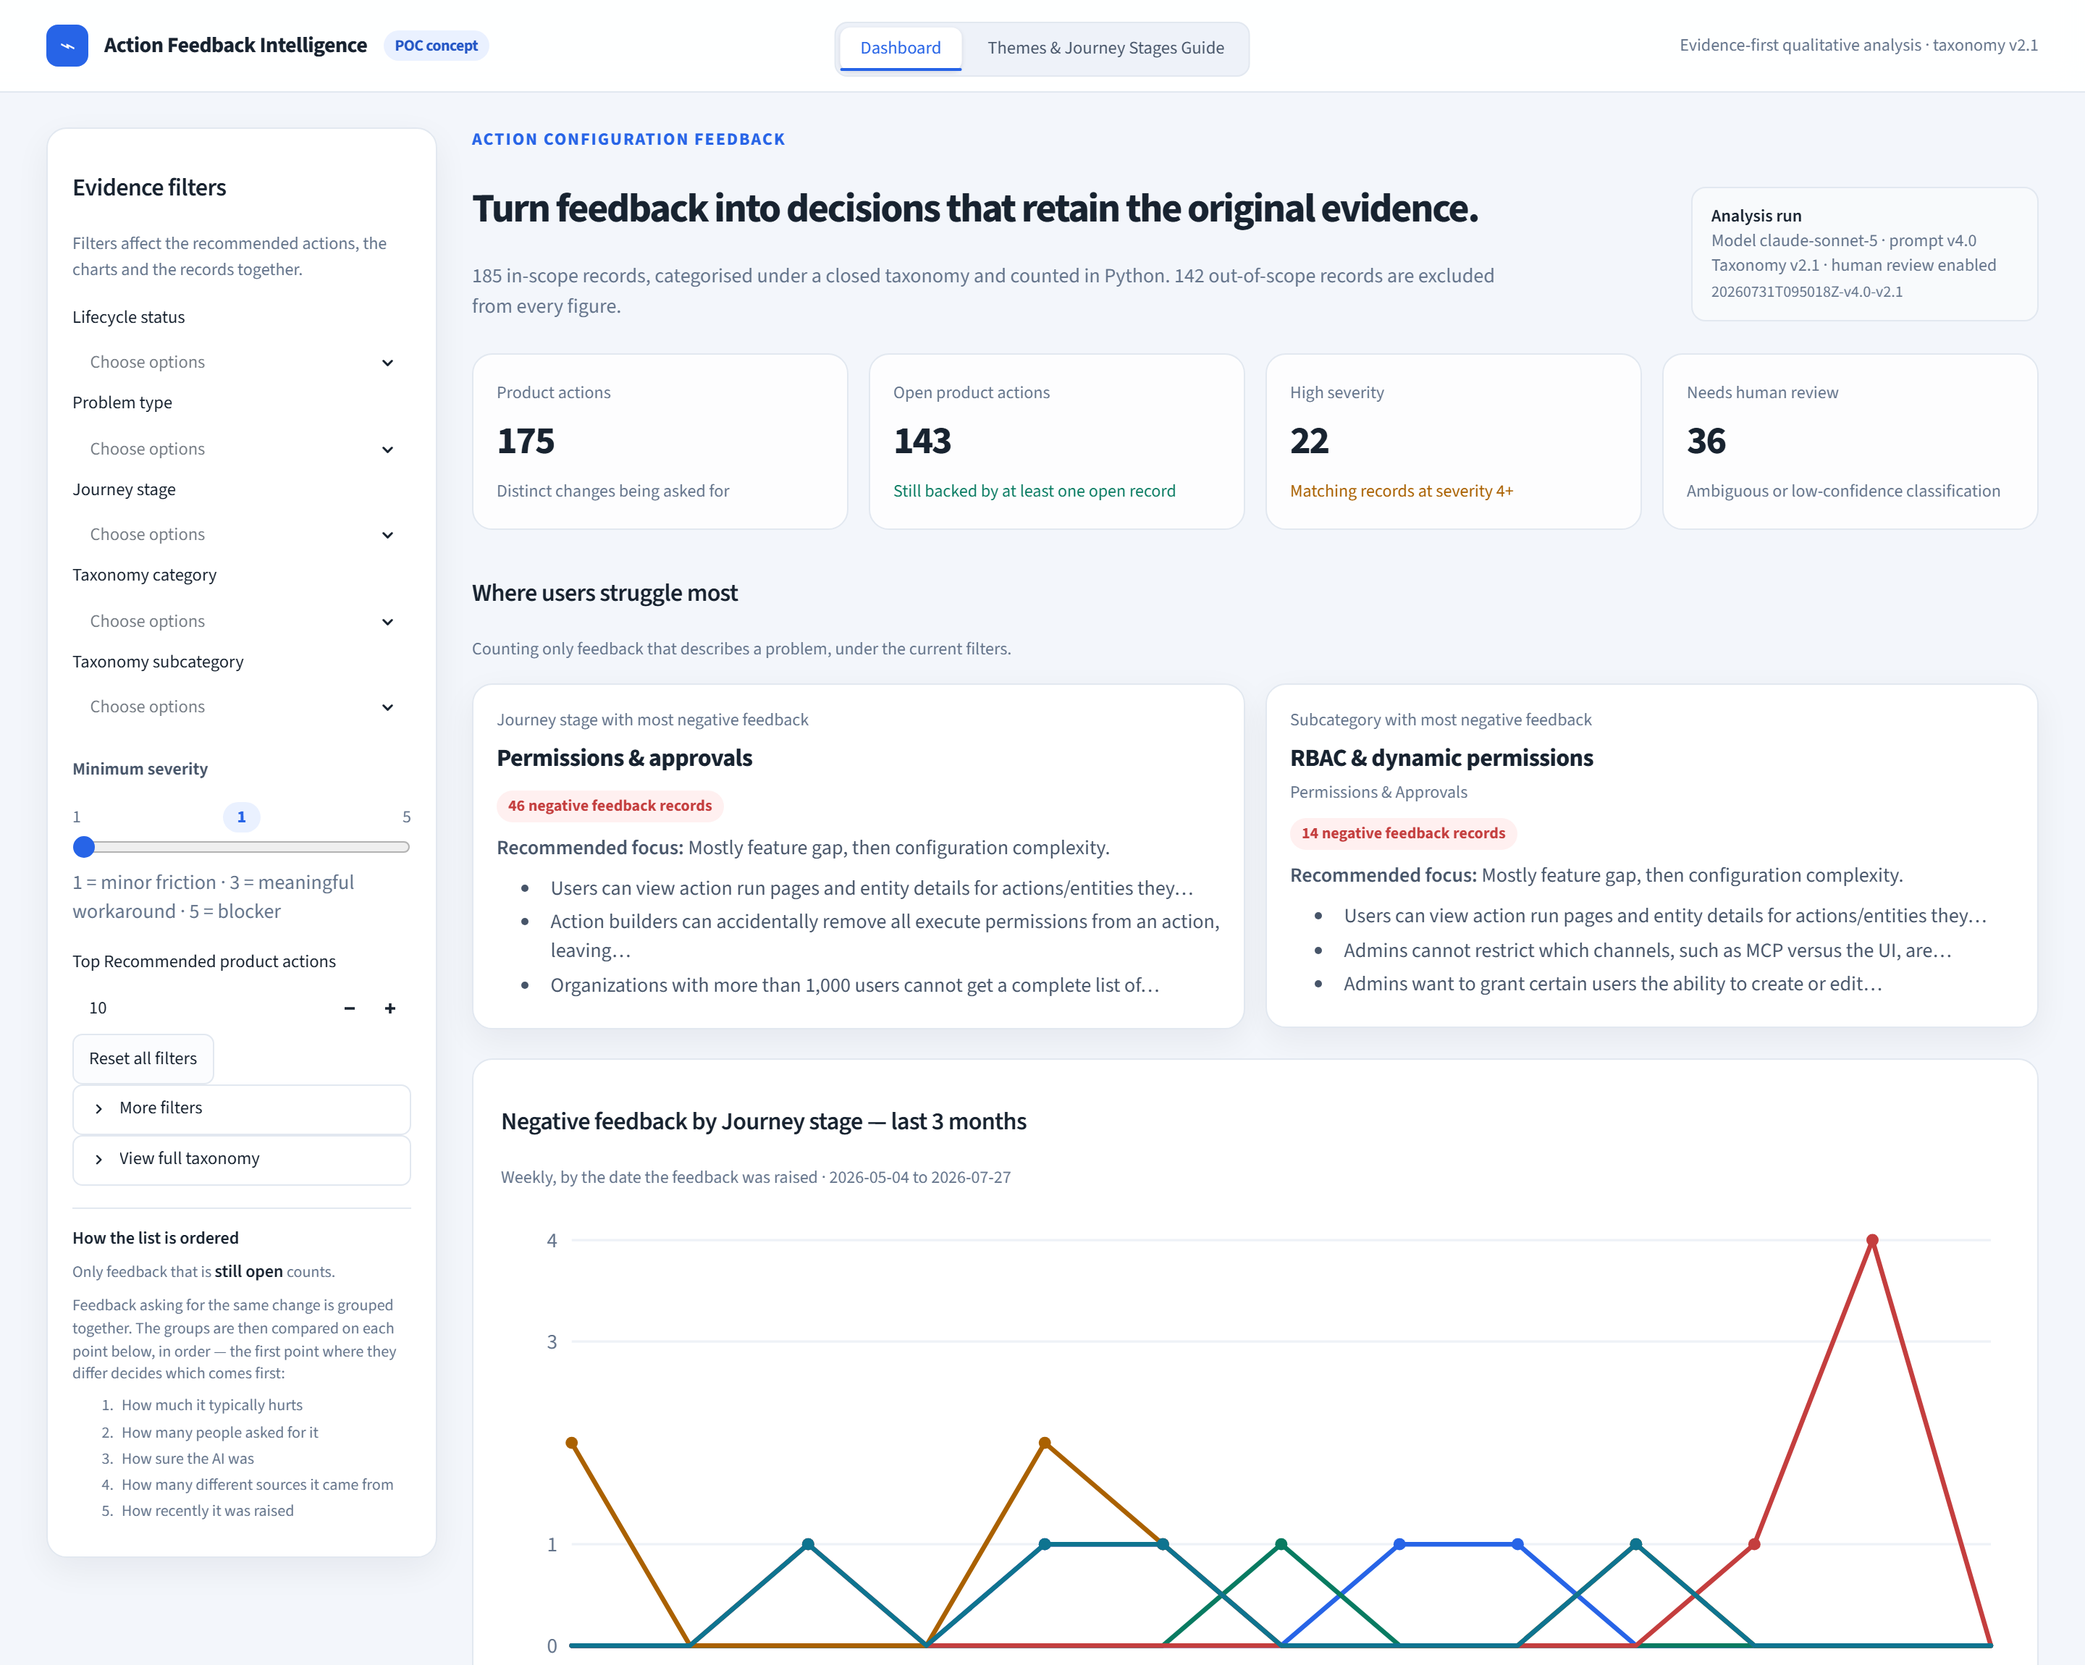
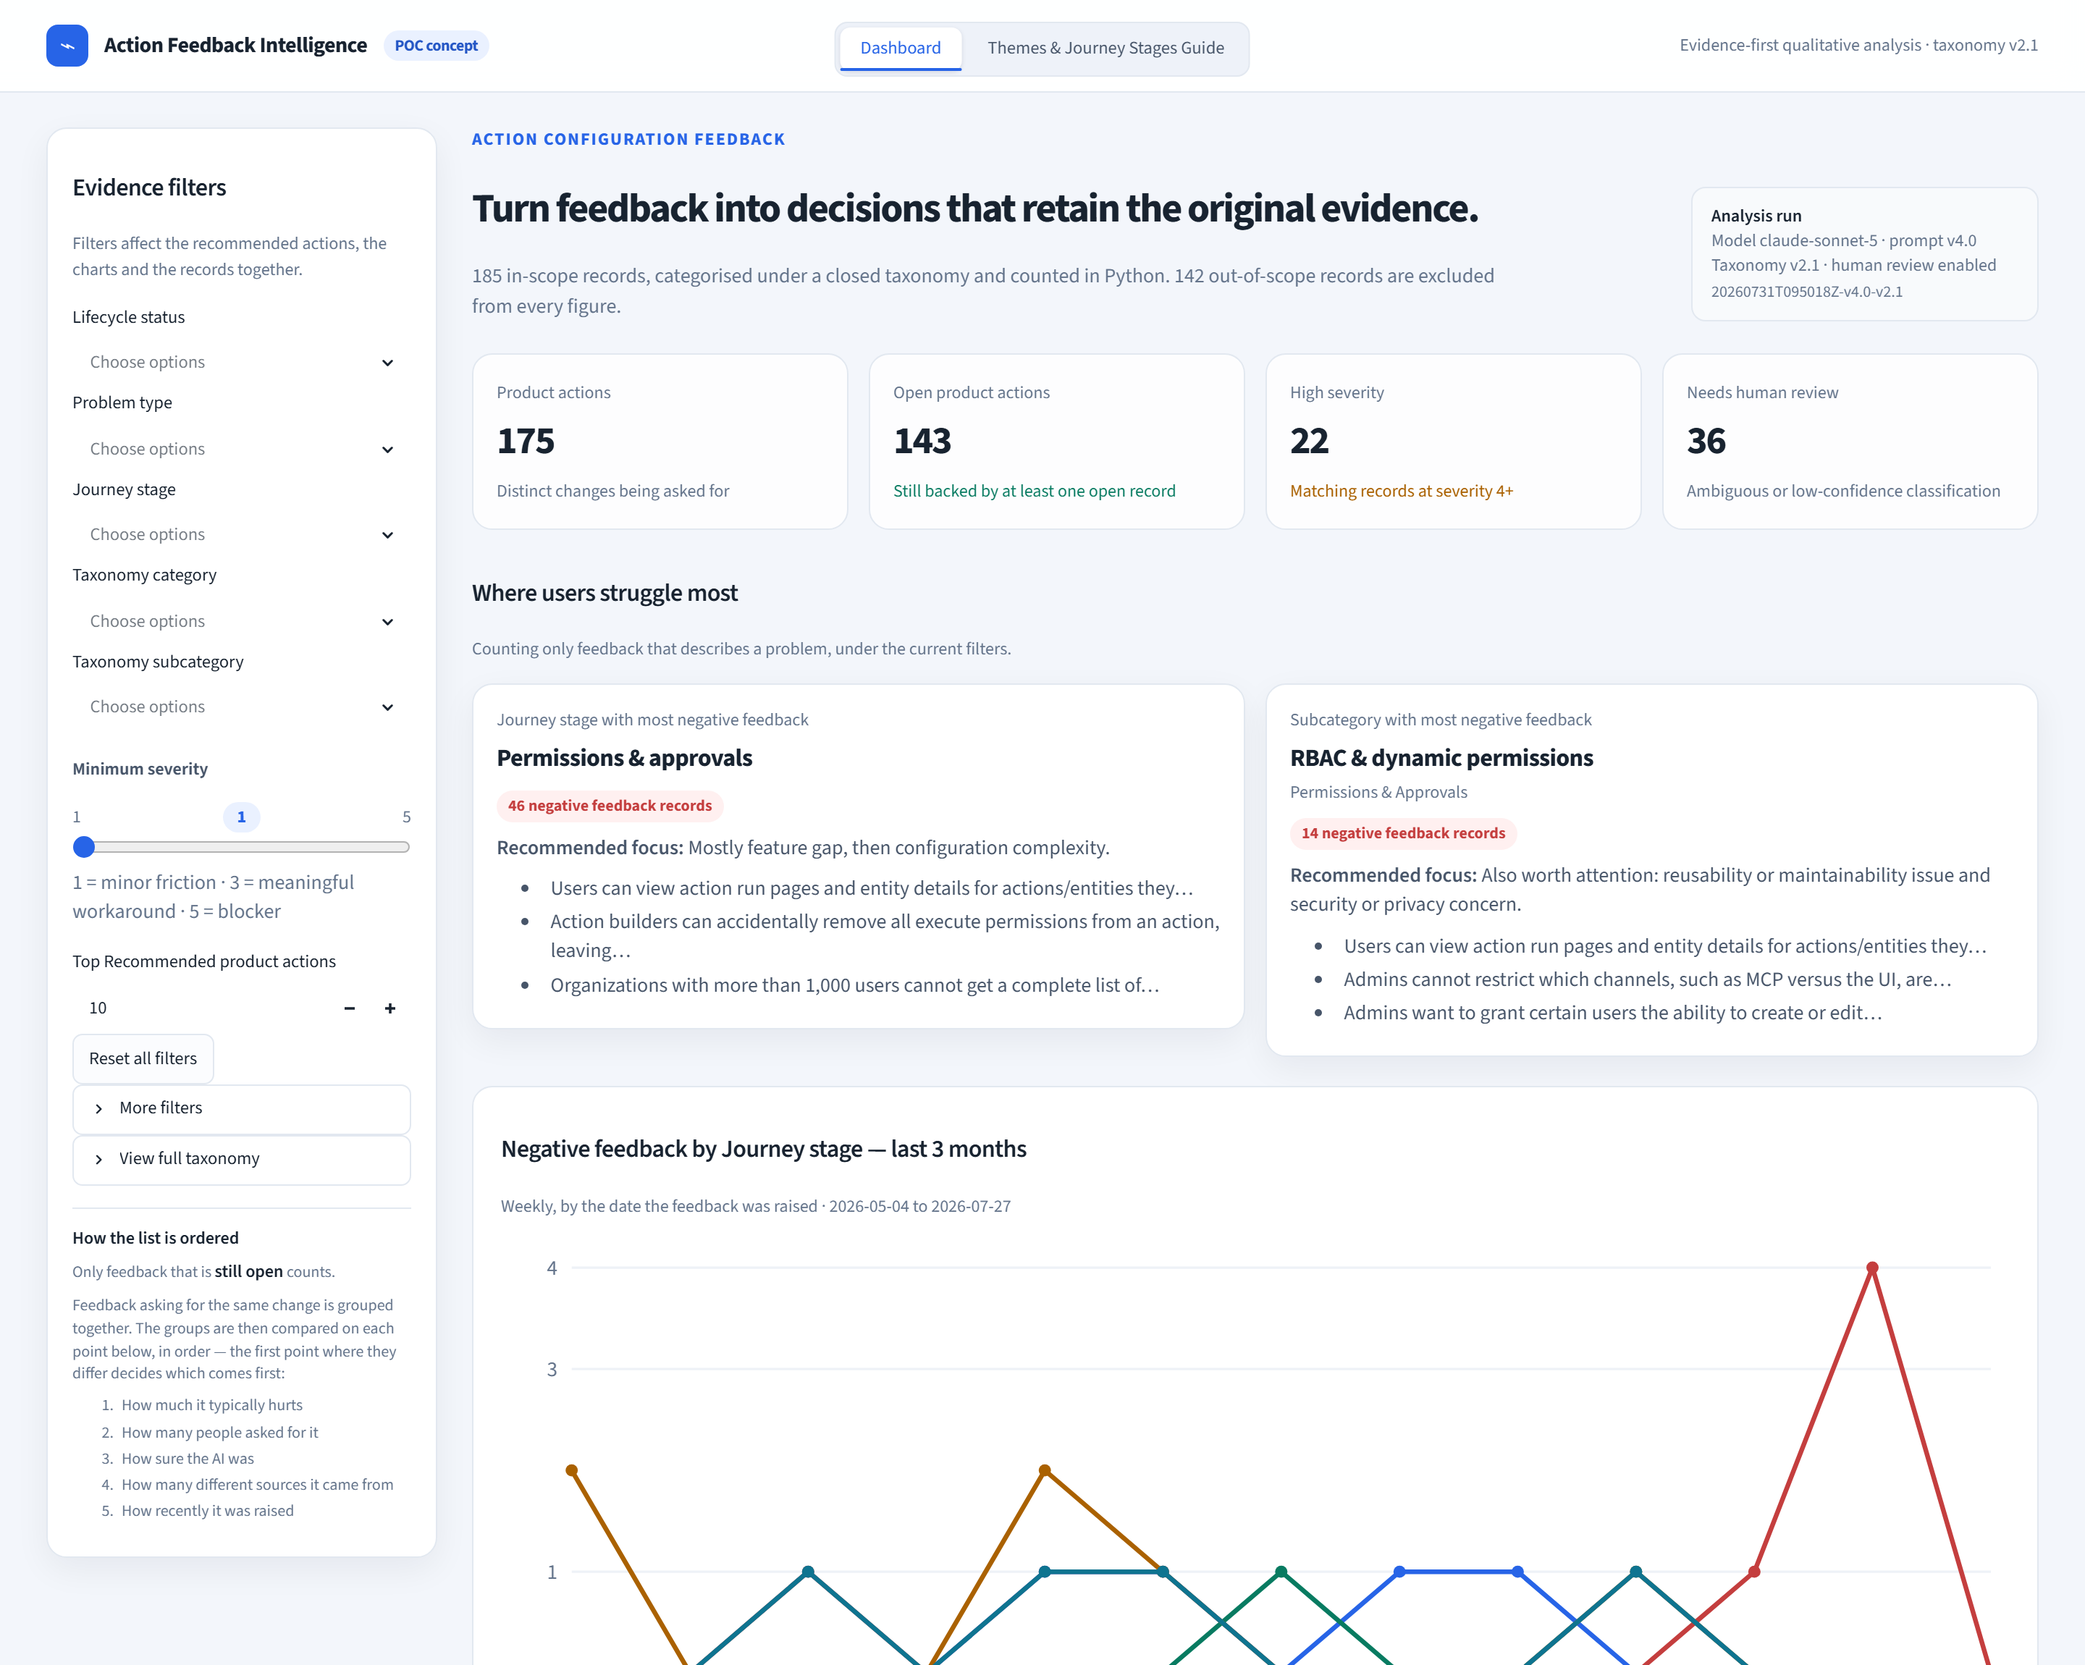
Differentiate the two focus lines when they would repeat
Both insight cards drew their focus from their own top two problem types, and
the two areas often share those, so the cards showed the identical sentence.
Accurate, but two matching lines side by side read as a failed render rather
than as a finding.

On a collision the subcategory card is re-pointed at the next problem type it
actually contains, and only if it has none left does the journey card move
instead. The replacement is still counted from the records -- 'also worth
attention: reusability or maintainability issue and security or privacy
concern' names types that are genuinely present, just outside the top two.

If neither area has anything further, both keep the shared line. Repeating a
true sentence beats inventing a distinguishing one.

Verified live: the journey card keeps its top-two summary and the subcategory
card now surfaces its third and fourth types.

105 tests pass, including all three branches -- subcategory resolves first,
journey resolves as fallback, and identical lines survive when neither has more.

diff --git a/src/analysis/aggregate.py b/src/analysis/aggregate.py
@@ -431,21 +431,53 @@ def _insight_examples(records: list[dict]) -> list[dict]:
     return out
 
 
-def _recommended_focus(records: list[dict]) -> str:
+def _problem_type_ranking(records: list[dict]) -> list[str]:
+    """Problem types present, most common first. Ties resolve alphabetically."""
+    counts = Counter(str(r.get("problem_type") or "") for r in records)
+    return [name.lower() for name, _ in
+            sorted(counts.items(), key=lambda kv: (-kv[1], kv[0])) if name]
+
+
+def _recommended_focus(names: list[str]) -> str:
     """A one-line focus, built from the problem types actually present.
 
     Assembled from counted fields rather than written by the model, so it
     cannot assert something the records do not show.
     """
-    if not records:
-        return ""
-    top = Counter(str(r.get("problem_type") or "") for r in records).most_common(2)
-    names = [name.lower() for name, _ in top if name]
     if not names:
         return "Reduce the friction reported here."
     if len(names) == 1:
         return f"Mostly {names[0]}."
     return f"Mostly {names[0]}, then {names[1]}."
+
+
+def resolve_focus_collision(journey: dict, subcategory: dict) -> None:
+    """Stop the two cards repeating the same focus line.
+
+    The two areas often share their top two problem types, which is accurate
+    but reads as a bug -- two cards side by side saying the identical sentence
+    look like one of them failed to load.
+
+    When they collide, the subcategory card is re-pointed at the next problem
+    type it actually contains, and only if it has none left does the journey
+    card get the same treatment. If neither has anything further, both keep the
+    shared line: repeating a true sentence is better than inventing a
+    distinguishing one.
+    """
+    shared = journey.get("recommended_focus")
+    if not shared or shared != subcategory.get("recommended_focus"):
+        return
+
+    already_named = set(journey.get("problem_type_ranking", [])[:2])
+    for card in (subcategory, journey):
+        remaining = [n for n in card.get("problem_type_ranking", [])
+                     if n not in already_named]
+        if remaining:
+            extra = remaining[:2]
+            card["recommended_focus"] = (
+                f"Also worth attention: {extra[0]}." if len(extra) == 1
+                else f"Also worth attention: {extra[0]} and {extra[1]}.")
+            return
 
 
 def negative_insight(rel: pd.DataFrame, group_type: str,
@@ -464,6 +496,7 @@ def negative_insight(rel: pd.DataFrame, group_type: str,
     if negative.empty:
         return {"group_type": group_type, "group_name": "",
                 "negative_feedback_count": 0, "recommended_focus": "",
+                "problem_type_ranking": [],
                 "examples": [], "parent_category": ""}
 
     counts = negative[column].value_counts()
@@ -478,7 +511,8 @@ def negative_insight(rel: pd.DataFrame, group_type: str,
         "parent_category": (CATEGORY_FOR_SUBCATEGORY.get(str(name), "")
                             if group_type == "subcategory" else ""),
         "negative_feedback_count": len(members),
-        "recommended_focus": _recommended_focus(members),
+        "problem_type_ranking": _problem_type_ranking(members),
+        "recommended_focus": _recommended_focus(_problem_type_ranking(members)),
         "examples": _insight_examples(members),
         "supporting_feedback_ids": sorted({str(r["feedback_id"])
                                            for r in members}),
@@ -594,6 +628,16 @@ def polarity_table(rel: pd.DataFrame) -> pd.DataFrame:
     return g.sort_values("records", ascending=False).reset_index(drop=True)
 
 
+def paired_insights(rel: pd.DataFrame,
+                     stages: list[str] | None = None,
+                     subcategories: list[str] | None = None) -> dict:
+    """Both insight cards, with any duplicate focus line resolved."""
+    journey = negative_insight(rel, "journey_stage", selected=stages)
+    subcategory = negative_insight(rel, "subcategory", selected=subcategories)
+    resolve_focus_collision(journey, subcategory)
+    return {"journey_stage": journey, "subcategory": subcategory}
+
+
 def build_all() -> dict:
     df = load_records()
     meta = df.attrs.get("meta", {})
@@ -634,10 +678,7 @@ def build_all() -> dict:
         },
         "kpis": kpis(df, rel, actions),
         "product_actions": action_rows,
-        "insights": {
-            "journey_stage": negative_insight(rel, "journey_stage"),
-            "subcategory": negative_insight(rel, "subcategory"),
-        },
+        "insights": paired_insights(rel),
         "negative_trend": negative_trend(rel),
         "categories": category_table(rel).to_dict("records"),
         "subcategories": subcategory_table(rel).to_dict("records"),

diff --git a/tests/test_product_actions.py b/tests/test_product_actions.py
@@ -423,3 +423,80 @@ def test_trend_fills_missing_weeks_with_zero():
     for entry in trend["series"]:
         assert len(entry["points"]) == TREND_WEEKS
         assert entry["points"].count(0) == TREND_WEEKS - 1
+
+
+# --- duplicate focus lines --------------------------------------------------
+def _card(name: str, ranking: list[str], focus: str) -> dict:
+    return {"group_name": name, "problem_type_ranking": ranking,
+            "recommended_focus": focus}
+
+
+def test_duplicate_focus_is_resolved_on_the_subcategory_first():
+    """Two identical sentences side by side read as a failed render.
+
+    The subcategory card is re-pointed at the next problem type it actually
+    contains, so the difference is still something the records show.
+    """
+    from src.analysis.aggregate import resolve_focus_collision
+
+    shared = "Mostly feature gap, then configuration complexity."
+    journey = _card("Permissions & approvals",
+                    ["feature gap", "configuration complexity"], shared)
+    subcategory = _card("RBAC & dynamic permissions",
+                        ["feature gap", "configuration complexity",
+                         "security or privacy concern"], shared)
+
+    resolve_focus_collision(journey, subcategory)
+    assert journey["recommended_focus"] == shared, "the journey card is left alone"
+    assert subcategory["recommended_focus"] != shared
+    assert "security or privacy concern" in subcategory["recommended_focus"]
+
+
+def test_duplicate_focus_falls_back_to_the_journey_card():
+    """Only when the subcategory has nothing further to say."""
+    from src.analysis.aggregate import resolve_focus_collision
+
+    shared = "Mostly feature gap, then configuration complexity."
+    journey = _card("Permissions & approvals",
+                    ["feature gap", "configuration complexity",
+                     "usability friction"], shared)
+    subcategory = _card("RBAC & dynamic permissions",
+                        ["feature gap", "configuration complexity"], shared)
+
+    resolve_focus_collision(journey, subcategory)
+    assert subcategory["recommended_focus"] == shared
+    assert "usability friction" in journey["recommended_focus"]
+
+
+def test_duplicate_focus_is_kept_when_neither_card_has_more():
+    """Repeating a true sentence beats inventing a distinguishing one."""
+    from src.analysis.aggregate import resolve_focus_collision
+
+    shared = "Mostly feature gap, then configuration complexity."
+    ranking = ["feature gap", "configuration complexity"]
+    journey = _card("Permissions & approvals", list(ranking), shared)
+    subcategory = _card("RBAC & dynamic permissions", list(ranking), shared)
+
+    resolve_focus_collision(journey, subcategory)
+    assert journey["recommended_focus"] == shared
+    assert subcategory["recommended_focus"] == shared
+
+
+def test_distinct_focus_lines_are_left_untouched():
+    from src.analysis.aggregate import resolve_focus_collision
+
+    journey = _card("A", ["feature gap"], "Mostly feature gap.")
+    subcategory = _card("B", ["bug / defect"], "Mostly bug / defect.")
+    resolve_focus_collision(journey, subcategory)
+    assert journey["recommended_focus"] == "Mostly feature gap."
+    assert subcategory["recommended_focus"] == "Mostly bug / defect."
+
+
+def test_real_cards_do_not_repeat_the_same_focus(aggregates):
+    journey = aggregates["insights"]["journey_stage"]["recommended_focus"]
+    subcategory = aggregates["insights"]["subcategory"]["recommended_focus"]
+    if journey and subcategory:
+        ranking = aggregates["insights"]["subcategory"]["problem_type_ranking"]
+        if len(ranking) > 2:
+            assert journey != subcategory, (
+                "the subcategory had a third problem type available")

diff --git a/app.py b/app.py
@@ -33,8 +33,8 @@ from src.analysis.aggregate import (
     HIGH_SEVERITY,
     RANK_KEYS,
     evidence_for_action,
-    negative_insight,
     negative_trend,
+    paired_insights,
     product_actions,
 )
 from src.models.taxonomy import (
@@ -507,12 +507,11 @@ def render_dashboard() -> None:
         # applied: it limits how many actions are listed, not which feedback
         # exists.
         st.markdown(
-            render.render_insight_cards(
-                negative_insight(view, "journey_stage",
-                                 selected=filters["stage"]),
-                negative_insight(view, "subcategory",
-                                 selected=filters["subcategory"]),
-            ),
+            render.render_insight_cards(**paired_insights(
+                view,
+                stages=filters["stage"],
+                subcategories=filters["subcategory"],
+            )),
             unsafe_allow_html=True,
         )
         st.markdown(render.render_trend_chart(negative_trend(view)),

diff --git a/src/ui/render.py b/src/ui/render.py
@@ -186,7 +186,7 @@ def render_product_actions(actions: list[dict], limit: int,
 
 
 # --------------------------------------------------------------------------
-def render_insight_cards(journey: dict, subcategory: dict) -> str:
+def render_insight_cards(journey_stage: dict, subcategory: dict) -> str:
     """The two "where users struggle most" cards.
 
     Both count only records the classifier judged Negative, so they answer
@@ -231,7 +231,7 @@ def render_insight_cards(journey: dict, subcategory: dict) -> str:
         "<p>Counting only feedback that describes a problem, under the current "
         "filters.</p></div></div>"
         '<div class="afi-insight-grid">'
-        + card(journey, "Journey stage with most negative feedback")
+        + card(journey_stage, "Journey stage with most negative feedback")
         + card(subcategory, "Subcategory with most negative feedback")
         + "</div></div>"
     )

diff --git a/README.md b/README.md
@@ -286,7 +286,9 @@ Two cards above the recommendations, counting **only** Negative feedback:
 - **Journey stage with most negative feedback** — where the pain concentrates in the lifecycle
 - **Subcategory with most negative feedback** — and which product area owns it
 
-Each shows a count, a recommended focus assembled from the problem types actually present, and up to three concise problem examples. Examples are de-duplicated first so three phrasings of one complaint cannot fill the card, then ranked by severity, supporting count, confidence, recency and text. Every example keeps its supporting feedback ids for traceability.
+Each shows a count, a recommended focus assembled from the problem types actually present, and up to three concise problem examples.
+
+**When both cards would say the same thing**, the subcategory card is re-pointed at the next problem type it actually contains, and only if it has none left does the journey card move instead. Two identical sentences side by side read as a failed render rather than as a finding — but if neither area has anything further, both keep the shared line, because repeating a true sentence beats inventing a distinguishing one. Examples are de-duplicated first so three phrasings of one complaint cannot fill the card, then ranked by severity, supporting count, confidence, recency and text. Every example keeps its supporting feedback ids for traceability.
 
 Both cards follow the filters. Selecting exactly one journey stage or subcategory shows that one, even if another leads globally — a card that ignores the filter beside it is worse than no card. `Top Recommended product actions` does not affect them: it limits how many actions are listed, not which feedback exists.
 
